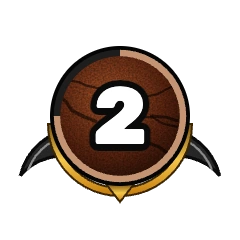
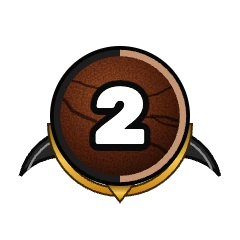
Forsaken Roster: badge ring fills a quarter per category, 1-category badge on every card, Previous/Next follow the active filter
- Badges: ring lights 1/4 per category (1 quarter, 2 half, 3 three-quarters, 4 full); new 1 badge (dark stone, no claws) so every card carries one
- Opening a character with a category filter on (e.g. Rushdown) keeps Previous/Next, arrow keys and the navbox Previous/Next inside that category and shows "Rushdown 1 / 5"; with All it uses the full Survivor or Killer list
- Button border image rebuilt without the leftover "Robux" text in its middle

Changed region(s): [[0.2042, 0.4667, 0.525, 0.7583]]

diff --git a/forsaken/fk.js b/forsaken/fk.js
@@ -87,7 +87,7 @@
     var nc = catsOf(c).length, multi = nc > 1;
     return '<a class="fk-card' + (multi ? ' fk-multi' : '') + '" href="' + BASE + '/' + c.id + '" data-id="' + c.id + '" data-side="' + c.side + '" data-google-vignette="false" style="' + vars(c) + ';--i:' + (i || 0) + '">' +
       '<img src="' + esc(c.card || c.image) + '"' + (c.cards ? ' srcset="' + c.cards.map(function (w) { return '/forsaken/img/card/' + c.id + '-' + w + '.webp ' + w + 'w'; }).join(', ') + '" sizes="(max-width: 600px) 31vw, 200px"' : '') + ' alt="" width="440" height="550" loading="lazy" decoding="async">' +
-      '<span class="fk-mo" aria-hidden="true"></span>' + (multi ? '<img class="fk-badge" src="/forsaken/img/ui-multi-' + Math.min(nc, 4) + '.webp" alt="" width="240" height="240" decoding="async"><span class="fk-sr">, in ' + nc + ' categories</span>' : '') + '<span class="fk-card-n">' + esc(c.name) + '</span></a>';
+      '<span class="fk-mo" aria-hidden="true"></span>' + (nc ? '<img class="fk-badge" src="/forsaken/img/ui-multi-' + Math.min(nc, 4) + '.webp" alt="" width="240" height="240" decoding="async"><span class="fk-sr">, in ' + nc + (nc === 1 ? ' category' : ' categories') + '</span>' : '') + '<span class="fk-card-n">' + esc(c.name) + '</span></a>';
   }
 
   function groupsFor(tab) { return tab === 'killer' ? ((data && data.killerClasses) || []) : CLS; }
@@ -152,6 +152,13 @@
   var fitT = 0;
   window.addEventListener('resize', function () { cancelAnimationFrame(fitT); fitT = requestAnimationFrame(fitNames); });
   if (document.fonts && document.fonts.ready) document.fonts.ready.then(function () { if (!CHAR) fitNames(); });
+
+  function scopeOf(c) {
+    var sc = null;
+    try { sc = JSON.parse(sessionStorage.getItem('fk-scope') || 'null'); } catch (e) {}
+    if (sc && sc.side === c.side && sc.ids && sc.ids.indexOf(c.id) >= 0) return { ids: sc.ids, label: sc.cls };
+    return { ids: order[c.side], label: c.side === 'killer' ? 'Killer' : 'Survivor' };
+  }
 
   function stat(label, val, cls, unit) {
     if (val == null || val === '') return '';
@@ -311,7 +318,7 @@
         return '<a href="' + BASE + '/' + id + '" data-go="' + id + '" data-google-vignette="false"' + (id === c.id ? ' aria-current="page"' : '') + '>' + esc(x.name) + '</a>';
       }).join('<span aria-hidden="true">&middot;</span>') + '</div></div>';
     }
-    var list = order[c.side], i = list.indexOf(c.id);
+    var sc = scopeOf(c), list = sc.ids, i = list.indexOf(c.id);
     var prev = byId[list[(i - 1 + list.length) % list.length]], next = byId[list[(i + 1) % list.length]];
     var html = '<nav class="fk-nav fk-drawn fk-rv" style="--i:9" aria-label="Forsaken Roster"><div class="fk-nav-h">Forsaken Roster</div>';
     CLS.forEach(function (k) { html += row(k + 's', groupIds(k, 'survivor')); });
@@ -321,7 +328,7 @@
   }
 
   function detailHtml(c) {
-    var list = order[c.side], i = list.indexOf(c.id);
+    var sc = scopeOf(c), list = sc.ids, i = list.indexOf(c.id);
     var prev = byId[list[(i - 1 + list.length) % list.length]], next = byId[list[(i + 1) % list.length]];
     var side = c.side === 'killer' ? 'Killer' : 'Survivor';
     var tags = '<span class="fk-tag' + (c.side === 'killer' ? ' fk-tag--killer' : '') + '">' + side + '</span>' + catsOf(c).map(function (k) { var note = c.catNotes && c.catNotes[k]; return '<span class="fk-tag' + (note ? ' fk-tag--note' : '') + '"' + (note ? ' title="' + esc(note) + '" tabindex="0" aria-label="' + esc(k + ': ' + note) + '"' : '') + '>' + esc(k) + (note ? '<sup aria-hidden="true">*</sup>' : '') + '</span>'; }).join('');
@@ -330,7 +337,7 @@
     return bg + '<div class="fk-page">' +
       '<div class="fk-top">' +
       '<a class="fk-btn fk-arrow" href="' + BASE + '/' + prev.id + '" data-go="' + prev.id + '" data-dir="-1" aria-label="Previous: ' + esc(prev.name) + '" data-google-vignette="false">&lsaquo;</a>' +
-      '<span class="fk-count">' + side + ' ' + (i + 1) + ' / ' + list.length + '</span>' +
+      '<span class="fk-count">' + esc(sc.label) + ' ' + (i + 1) + ' / ' + list.length + '</span>' +
       '<a class="fk-btn fk-arrow" href="' + BASE + '/' + next.id + '" data-go="' + next.id + '" data-dir="1" aria-label="Next: ' + esc(next.name) + '" data-google-vignette="false">&rsaquo;</a>' +
       '<a class="fk-x" href="' + BASE + '" data-back="1" aria-label="Back to the roster" title="Back to the roster" data-google-vignette="false">Roster</a></div>' +
       '<div class="fk-hero" style="' + vars(c) + '">' +
@@ -667,7 +674,7 @@
 
   function step(dir) {
     if (!cur || busy) return;
-    var list = order[cur.side], i = list.indexOf(cur.id);
+    var list = scopeOf(cur).ids, i = list.indexOf(cur.id);
     leave(BASE + '/' + list[(i + dir + list.length) % list.length], dir);
   }
 
@@ -707,6 +714,7 @@
     e.preventDefault();
     var id = a.getAttribute('data-id');
     try { sessionStorage.setItem('fk-ret', JSON.stringify({ tab: st.tab, cls: st.cls, y: window.scrollY })); } catch (err) {}
+    try { if (st.cls !== 'all') sessionStorage.setItem('fk-scope', JSON.stringify({ side: st.tab, cls: st.cls, ids: groupIds(st.cls, st.tab) })); else sessionStorage.removeItem('fk-scope'); } catch (err) {}
     busy = true;
     burn(a, function () { busy = false; leave(BASE + '/' + id, 0); });
   });

diff --git a/forsaken/fk.css b/forsaken/fk.css
@@ -12,7 +12,7 @@
 
 .fk-drawn{position:relative;background:var(--fk-glass);border:7px solid transparent;border-image:var(--fk-frame) 30 / 7px stretch;outline:1px solid rgba(255,255,255,.38);outline-offset:3px}
 
-.fk-btn{position:relative;isolation:isolate;display:inline-flex;align-items:center;justify-content:center;gap:9px;min-height:46px;padding:3px 26px;border:5px solid transparent;border-image:url("/forsaken/img/ui-btn.webp") 10 / 5px stretch;background:linear-gradient(180deg,#252525 0%,#141414 24%,#0b0b0b 62%,#0e0e0e 88%,#141414 100%) padding-box;cursor:pointer;text-decoration:none;font-family:var(--fk-serif)!important;font-size:21px;font-weight:400;line-height:1.1;color:#f2f2f2;transform:scale(1);transition:transform .16s cubic-bezier(.2,.8,.3,1.35),color .12s}
+.fk-btn{position:relative;isolation:isolate;display:inline-flex;align-items:center;justify-content:center;gap:9px;min-height:46px;padding:3px 26px;border:5px solid transparent;border-image:url("/forsaken/img/ui-btn.webp?v=2") 10 / 5px stretch;background:linear-gradient(180deg,#252525 0%,#141414 24%,#0b0b0b 62%,#0e0e0e 88%,#141414 100%) padding-box;cursor:pointer;text-decoration:none;font-family:var(--fk-serif)!important;font-size:21px;font-weight:400;line-height:1.1;color:#f2f2f2;transform:scale(1);transition:transform .16s cubic-bezier(.2,.8,.3,1.35),color .12s}
 .fk-btn:hover,.fk-btn:focus-visible{transform:scale(1.07);color:#fff;z-index:2}
 .fk-btn:active{transform:scale(.97)}
 .fk-btn[aria-selected=true],.fk-btn[aria-pressed=true]{color:#050505}

diff --git a/forsaken/roster.html b/forsaken/roster.html
@@ -26,7 +26,7 @@
     </div></div>
     <div id="ug-content" data-layout="wide" data-hdr="title" data-hdr-name="Roster">
 <style>@import url("https://fonts.googleapis.com/css2?family=Rubik:wght@600;700;800&family=Source+Serif+4:ital,opsz,wght@0,8..60,400;0,8..60,600;1,8..60,400&display=swap");</style>
-<link rel="stylesheet" href="/forsaken/fk.css?v=20261104s">
+<link rel="stylesheet" href="/forsaken/fk.css?v=20261104t">
 <div class="fk" id="fk" data-base="/forsaken/roster" data-src="/forsaken/forsaken-preview.json?v=4">
 <div class="fk-grid-view">
 <div class="fk-shell fk-drawn">
@@ -38,7 +38,7 @@
 <div class="fk-detail" tabindex="-1" role="region" aria-label="Character" hidden></div>
 <div class="fk-pulse" aria-hidden="true"></div>
 </div>
-<script src="/forsaken/fk.js?v=20261104q" defer></script>
+<script src="/forsaken/fk.js?v=20261104t" defer></script>
 
           <div class="ad-slot" style="max-width:600px;width:95%;margin:32px auto 8px"><ins class="adsbygoogle" style="display:block" data-ad-client="ca-pub-7017245771068026" data-ad-slot="9010982209" data-ad-format="auto" data-full-width-responsive="true"></ins><script>(adsbygoogle = window.adsbygoogle || []).push({});</script></div>
     </div>
